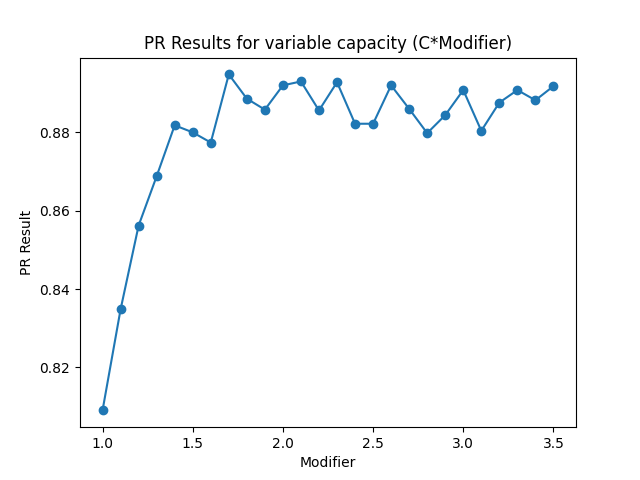
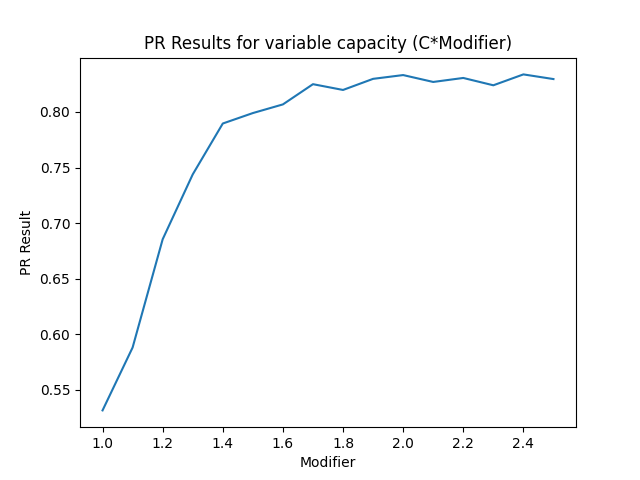
Done Sieci wykresy

diff --git a/Sieci/L2/L2.cpp b/Sieci/L2/L2.cpp
@@ -12,7 +12,7 @@
 
 using namespace std;
 
-int packetSize = 10;
+int packetSize = 13;
 mt19937 mt(time(nullptr));
 int maxEdges =30;
 
@@ -274,7 +274,7 @@ double Pr(int N[20][20], double T_max,G g,G main){
 double Pr_with_save(int N[20][20], double T_max, G g, G main, const std::string& filename = "pr_results.csv") {
     double final_result = 0;
     
-    for(float i = 1.0f; i <= 3.5f; i += 0.1f) {
+    for(float i = 1.0f; i <= 2.5f; i += 0.1f) {
         // Create fresh copies for each iteration
         G current_g = main;
         G current_main = main;
@@ -300,7 +300,7 @@ double Pr_with_save(int N[20][20], double T_max, G g, G main, const std::string&
 // Modified Pr function that saves results
 double Pr_N_with_save(int N[20][20],  double T_max, G g, G main, const std::string& filename = "pr_results.csv") {
     double result=0;
-    for(float i = 1.0f; i <= 3.5f; i += 0.1f){
+    for(float i = 1.0f; i <= 2.5f; i += 0.1f){
         int temp[20][20];
         for(int j = 0; j < 20; j++) {
             for(int k = 0; k < 20; k++) {
@@ -319,7 +319,7 @@ double Pr_N_with_save(int N[20][20],  double T_max, G g, G main, const std::stri
 double Pr_Edges_with_save(int N[20][20],  double T_max, G g, G main, const std::string& filename = "pr_results.csv") {
     double final_result = 0;
     
-    for(int i = 1; i <= 30; i+=2) {
+    for(int i = 1; i <= 15; i++) {
         // Create fresh copies for each iteration
         G current_g = main;
         int average = 0;
@@ -377,7 +377,9 @@ int main(){
 
     //Pr_with_save(N,(double)0.1,g,main,"Results_C.csv");
     //Pr_N_with_save(N,(double)0.1,g,main,"Results_N.csv");
-    Pr_Edges_with_save(N,(double)0.1,g,main,"Results_E.csv");
+    for(int i=0;i<25;i++){
+            Pr_Edges_with_save(N,(double)0.1,g,main,"Results_E.csv");
+    }
     
     return 0;
 }

diff --git a/Sieci/L2/WykresE_Mean.py b/Sieci/L2/WykresE_Mean.py
@@ -1,0 +1,39 @@
+import pandas as pd
+import matplotlib.pyplot as plt
+import numpy as np
+
+# Read the CSV file
+data = pd.read_csv('Results_E.csv')
+
+# Group by 'Modifier' and compute mean & std deviation
+grouped = data.groupby('Modifier')['pr_result'].agg(['mean', 'std']).reset_index()
+
+# Create the plot with error bars
+plt.errorbar(
+    grouped['Modifier'],
+    grouped['mean'],
+    yerr=grouped['std'],
+    fmt='-o',           # Line with circle markers
+    capsize=5,          # Error bar cap width
+    label='PR Results ± Std Dev'
+)
+
+# Add a horizontal line for the overall mean
+overall_mean = data['pr_result'].mean()
+plt.axhline(
+    overall_mean,
+    color='red',
+    linestyle='--',
+    label=f'Overall Mean: {overall_mean:.4f}'
+)
+
+# Customize the plot
+plt.xlabel('Number of additional edges')
+plt.ylabel('PR Result')
+plt.title('PR Results (Grouped by Modifier)')
+plt.legend()
+plt.grid(True, linestyle='--', alpha=0.6)  # Add grid for better readability
+
+# Save the plot
+plt.savefig("Results_E_grouped.png", dpi=300, bbox_inches='tight')
+plt.close()

diff --git a/Sieci/L2/WykresE.py b/Sieci/L2/WykresE.py
@@ -1,16 +1,21 @@
 import pandas as pd
 import matplotlib.pyplot as plt
 
-# Read the CSV file
+# Read CSV and group by Modifier to compute mean
 data = pd.read_csv('Results_E.csv')
+grouped = data.groupby('Modifier')['pr_result'].mean().reset_index()
 
-# Create the plot
-plt.plot(data['Modifier'], data['pr_result'], marker='o')
+# Plot just the averages
+plt.plot(grouped['Modifier'], grouped['pr_result'], 
+        linestyle='-', color='blue', label='Average PR Result')
 
-# Add basic labels
+# Customize the plot
 plt.xlabel('Number of additional edges')
-plt.ylabel('PR Result')
-plt.title('PR Results for additional random edges')
+plt.ylabel('Average PR Result')
+plt.title('Average PR Results by Modifier')
+plt.legend()
+plt.grid(True, linestyle='--', alpha=0.6)
 
-# Show the plot
-plt.savefig("Results_E.png")
+# Save and close
+plt.savefig("Results_E_Averages.png", dpi=300, bbox_inches='tight')
+plt.close()

diff --git a/Sieci/L2/WykresC.py b/Sieci/L2/WykresC.py
@@ -5,7 +5,7 @@ import matplotlib.pyplot as plt
 data = pd.read_csv('Results_C.csv')
 
 # Create the plot
-plt.plot(data['Modifier'], data['pr_result'], marker='o')
+plt.plot(data['Modifier'], data['pr_result'])
 
 # Add basic labels
 plt.xlabel('Modifier')

diff --git a/Sieci/L2/WykresN.py b/Sieci/L2/WykresN.py
@@ -5,7 +5,7 @@ import matplotlib.pyplot as plt
 data = pd.read_csv('Results_N.csv')
 
 # Create the plot
-plt.plot(data['Modifier'], data['pr_result'], marker='o')
+plt.plot(data['Modifier'], data['pr_result'])
 
 # Add basic labels
 plt.xlabel('Modifier')
